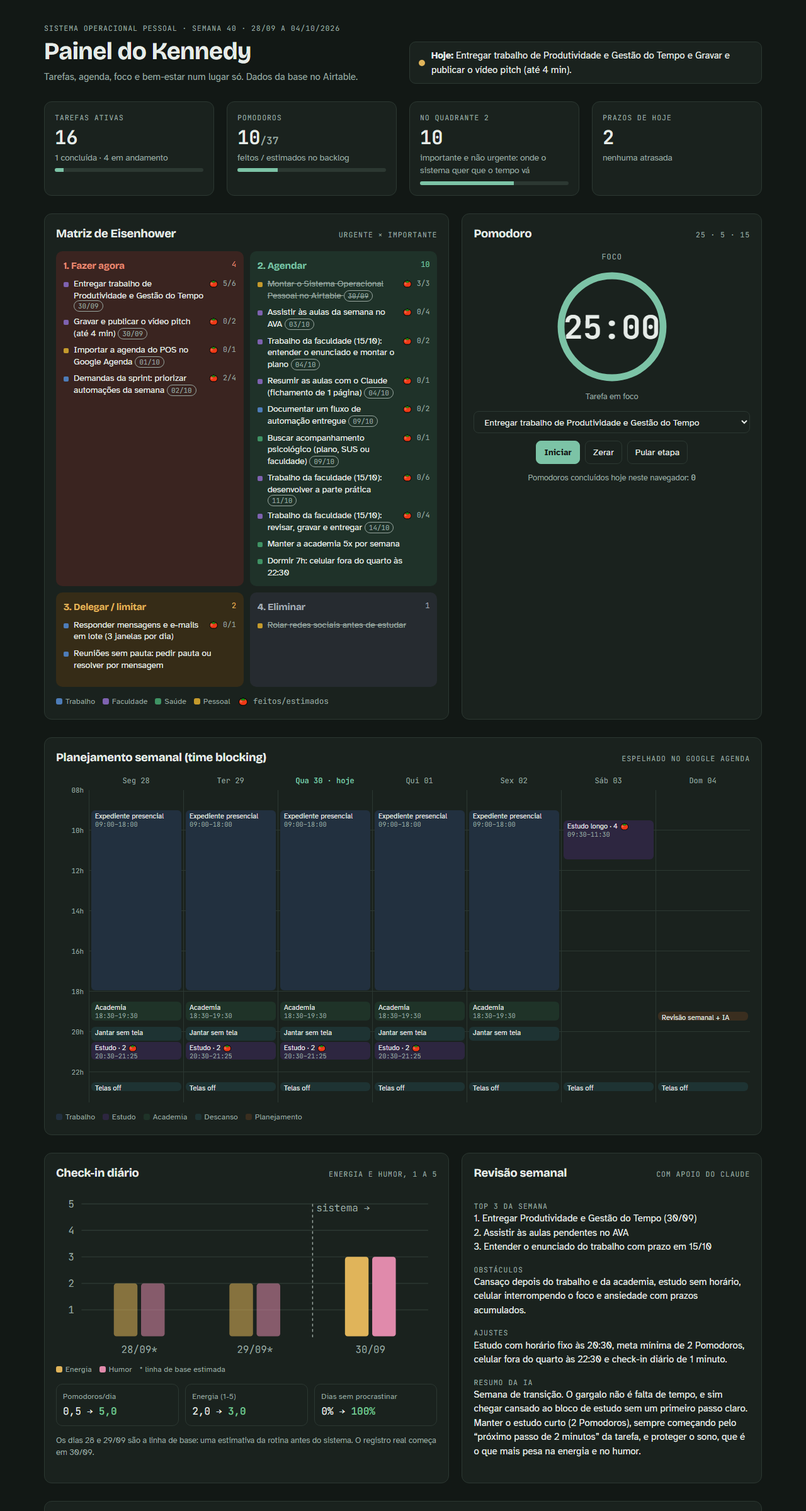
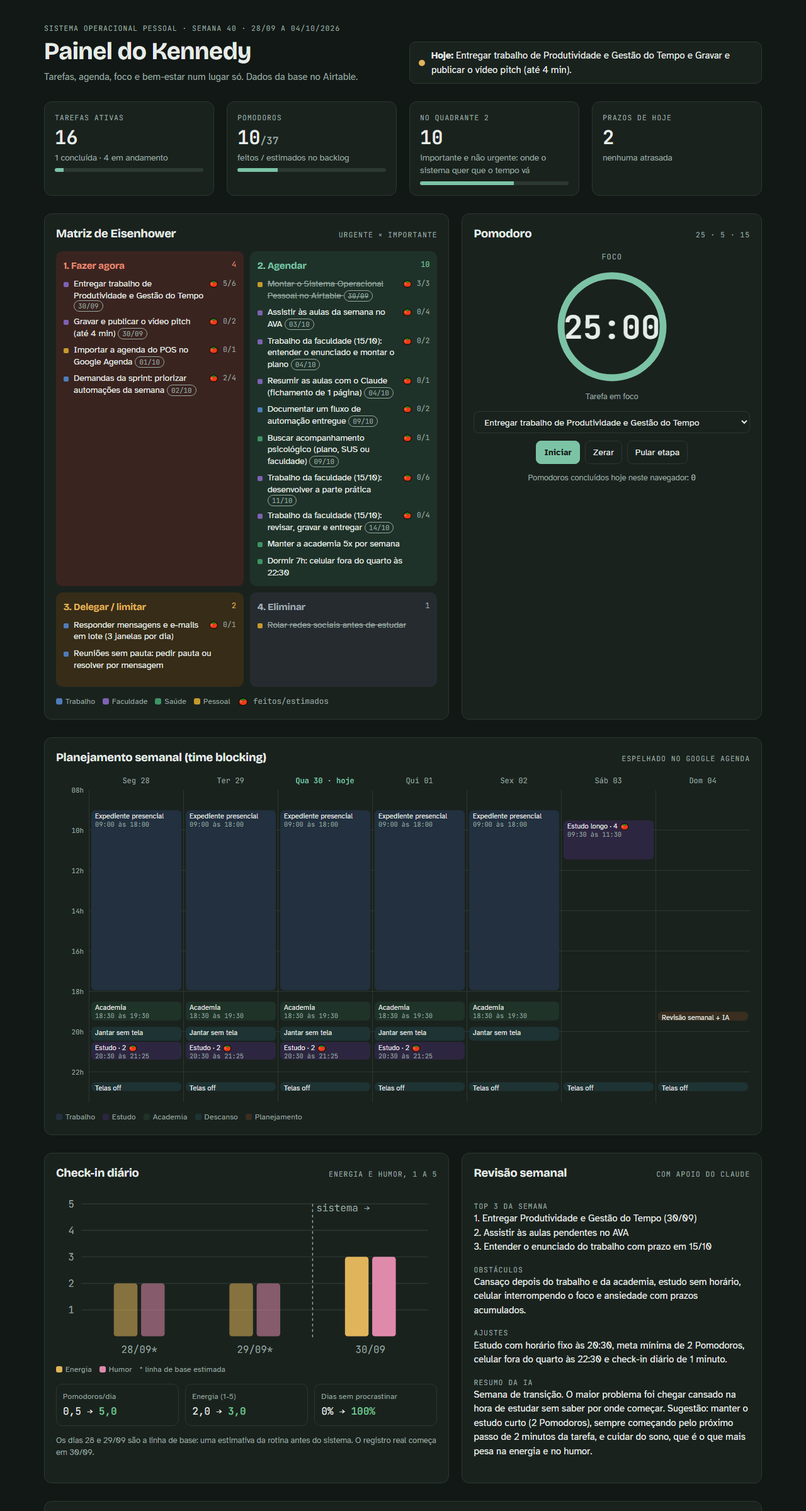
Revisa textos da parte teorica, README e painel

Changed region(s): [[0.5938, 0.9062, 0.9062, 0.9688]]

diff --git a/dashboard/index.html b/dashboard/index.html
@@ -227,7 +227,7 @@ const review = {
   "Top 3 da semana":"1. Entregar Produtividade e Gestão do Tempo (30/09)<br>2. Assistir às aulas pendentes no AVA<br>3. Entender o enunciado do trabalho com prazo em 15/10",
   "Obstáculos":"Cansaço depois do trabalho e da academia, estudo sem horário, celular interrompendo o foco e ansiedade com prazos acumulados.",
   "Ajustes":"Estudo com horário fixo às 20:30, meta mínima de 2 Pomodoros, celular fora do quarto às 22:30 e check-in diário de 1 minuto.",
-  "Resumo da IA":"Semana de transição. O gargalo não é falta de tempo, e sim chegar cansado ao bloco de estudo sem um primeiro passo claro. Manter o estudo curto (2 Pomodoros), sempre começando pelo “próximo passo de 2 minutos” da tarefa, e proteger o sono, que é o que mais pesa na energia e no humor."
+  "Resumo da IA":"Semana de transição. O maior problema foi chegar cansado na hora de estudar sem saber por onde começar. Sugestão: manter o estudo curto (2 Pomodoros), sempre começando pelo próximo passo de 2 minutos da tarefa, e cuidar do sono, que é o que mais pesa na energia e no humor."
 };
 const prompts = [
   {n:"Planejamento semanal",w:"Domingo (planejamento)",x:"Você é meu assistente de planejamento. Minha rotina fixa: trabalho presencial 09h-18h (seg-sex), academia 18h30-19h30, estudo 20h30-21h25 (seg-qui, 2 Pomodoros) e sábado 09h30-11h30 (4 Pomodoros). Abaixo estão minhas tarefas com prazo e estimativa em Pomodoros. 1) Classifique cada uma na Matriz de Eisenhower. 2) Distribua as tarefas dos quadrantes 1 e 2 nos blocos da semana sem passar da capacidade. 3) Liste o que deve ser eliminado ou adiado. 4) Escolha um Top 3 da semana. Responda em tabela.\n\nTAREFAS:\n[colar a exportação da view 'Caixa de entrada' do Airtable]"},
@@ -281,7 +281,7 @@ w += `<div class="hours" style="height:${(H1-H0)*PX}px">${hrs}</div>`;
 for(let i=0;i<7;i++){
   const bl = blocks.filter(b=>b.d.includes(i)).map(b=>{
     const top=(toH(b.s)-H0)*PX, h=(toH(b.e)-toH(b.s))*PX-2;
-    return `<div class="blk t-${b.ty}" style="top:${top}px;height:${h}px" title="${b.n} ${b.s}–${b.e}">${b.n}${h>26?`<b>${b.s}–${b.e}</b>`:""}</div>`;
+    return `<div class="blk t-${b.ty}" style="top:${top}px;height:${h}px" title="${b.n} ${b.s} às ${b.e}">${b.n}${h>26?`<b>${b.s} às ${b.e}</b>`:""}</div>`;
   }).join("");
   w += `<div class="col" style="height:${(H1-H0)*PX}px;--h:${PX*2}px">${bl}</div>`;
 }

diff --git a/docs/parte-teorica.md b/docs/parte-teorica.md
@@ -1,7 +1,7 @@
-# Parte Teórica – Análise e Discussão
+# Parte Teórica: Análise e Discussão
 
 **Projeto:** Meu Sistema Operacional Pessoal: Utilizando IA para Gerenciar Tempo, Comunicação e Produtividade
-**Disciplina:** Produtividade e Gestão do Tempo – UniFECAF, 2º semestre
+**Disciplina:** Produtividade e Gestão do Tempo, UniFECAF, 2º semestre
 **Aluno:** Kennedy Pereira
 
 **Links do projeto:**
@@ -13,157 +13,150 @@
 
 ---
 
-## 1. Diagnóstico da rotina atual
+## 1. Diagnóstico da minha rotina
 
-Trabalho como **analista de IA e Automação**, em regime **presencial, das 09h às 18h**, e curso **IA e Automação na UniFECAF** a distância. Antes deste projeto, meu dia típico seguia esta sequência:
+Trabalho como analista de IA e Automação, de forma presencial, das 9h às 18h. Também curso IA e Automação na UniFECAF, a distância. Antes deste trabalho, meu dia era mais ou menos assim:
 
-| Horário aproximado | Atividade |
+| Horário | O que eu fazia |
 |---|---|
 | Manhã | Acordar e ir para o trabalho |
-| 09h – 18h | Expediente presencial |
+| 9h às 18h | Expediente presencial |
 | Depois do trabalho | Academia |
-| Noite | Voltar para casa, estudar "quando dava", banho e dormir |
+| À noite | Voltar para casa, estudar quando dava, tomar banho e dormir |
 
-A rotina tinha uma única âncora fixa: a **academia**, que funciona bem e que eu mantenho com regularidade. Todo o resto era feito "de cabeça". Eu **não usava nenhuma ferramenta de organização**: as tarefas da faculdade, do trabalho e da vida pessoal ficavam na memória ou espalhadas em conversas de WhatsApp e e-mails.
+O único compromisso fixo que eu tinha era a academia, e ela sempre funcionou bem. O resto ficava na cabeça. Eu não usava nenhuma ferramenta para me organizar, então as coisas da faculdade, do trabalho e da vida pessoal ficavam na memória ou perdidas em conversas de WhatsApp e e-mail.
 
-Ao montar o diagnóstico, percebi três pontos importantes:
+Quando parei para fazer esse diagnóstico, percebi três coisas. A primeira é que eu não sabia quantas horas estudava por semana, então não tinha como saber se era pouco ou muito. A segunda é que o estudo sempre ficava com o que sobrava do dia, depois do trabalho e da academia, quando eu já estava sem energia, sem horário certo e sem saber direito o que ia estudar. A terceira é que eu lembrava dos prazos tarde. Sem uma lista, os trabalhos da faculdade só ganhavam atenção perto da data de entrega.
 
-1. **Eu não sabia quantas horas estudava por semana.** Sem medição, não havia como saber se o tempo de estudo era suficiente nem como melhorá-lo.
-2. **O estudo ficava com a "sobra" do dia.** Ele acontecia depois do trabalho e da academia, no momento de menor energia, sem horário definido e sem um objetivo claro para a sessão.
-3. **Prazos eram lembrados tarde.** Sem uma lista central, o trabalho da faculdade só ganhava atenção quando o prazo já estava próximo, o que gerava acúmulo e pressão.
+## 2. Principais desafios de produtividade
 
-## 2. Principais desafios de produtividade identificados
-
-| Desafio | Como aparece na rotina | Consequência |
+| Desafio | Como aparece no dia a dia | O que causa |
 |---|---|---|
-| **Procrastinação** | Adiar o estudo e os trabalhos da faculdade, principalmente à noite | Acúmulo de tarefas perto do prazo |
-| **Cansaço** | Chegar ao momento de estudo depois de 9h de trabalho e da academia | Pouca concentração e sessões que não começam |
-| **Falta de sistema** | Nenhuma ferramenta; tudo na memória | Esquecimento, sensação de "estar devendo algo" o tempo todo |
-| **Interrupções digitais** | Celular e redes sociais durante o estudo | Foco fragmentado |
-| **Saúde mental** | Ansiedade e estresse, com fases de desânimo | Energia baixa, mais procrastinação, ciclo que se retroalimenta |
+| Procrastinação | Deixar o estudo e os trabalhos para depois, principalmente à noite | Tarefas acumulando perto do prazo |
+| Cansaço | Chegar na hora de estudar depois de 9 horas de trabalho e da academia | Pouca concentração, e às vezes o estudo nem começa |
+| Falta de organização | Nenhuma ferramenta, tudo na memória | Esquecimentos e a sensação de estar sempre devendo alguma coisa |
+| Celular | Redes sociais e notificações durante o estudo | Foco quebrado |
+| Saúde mental | Ansiedade e estresse | Menos energia e mais procrastinação |
 
-O ponto central do diagnóstico é que **procrastinação, cansaço e ansiedade formam um ciclo**: o cansaço faz adiar; o adiamento gera acúmulo; o acúmulo aumenta a ansiedade; a ansiedade piora o sono e a energia; e com menos energia, adia-se ainda mais. Por isso o sistema não poderia ser só uma lista de tarefas. Ele precisava **reduzir o esforço de começar**, **proteger a energia** e **tirar a carga mental da cabeça**.
+Olhando a tabela, percebi que esses problemas estão ligados. Quando estou cansado, eu adio. As tarefas acumulam, a ansiedade aumenta, durmo pior e no dia seguinte tenho menos energia ainda. Por isso eu sabia que uma lista de tarefas sozinha não ia resolver. O sistema precisava facilitar o começo das tarefas, cuidar da minha energia e tirar as coisas da minha cabeça.
 
-Sobre comunicação, o desafio é menor, mas existe: no trabalho, mensagens chegam o dia inteiro por vários canais, e responder tudo na hora interrompe o trabalho profundo.
+Sobre comunicação, não tenho grandes problemas, mas no trabalho as mensagens chegam o dia todo por vários canais. Responder tudo na hora atrapalha quando preciso me concentrar.
 
 ## 3. Métodos utilizados
 
-O sistema combina quatro métodos, cada um escolhido para atacar um desafio específico do diagnóstico:
+Usei quatro métodos, e cada um foi escolhido por causa de um problema do diagnóstico.
 
-### 3.1 GTD – Getting Things Done (David Allen)
+### 3.1 GTD (Getting Things Done)
 
-**Problema que resolve:** tudo na memória.
-O GTD parte da ideia de que a mente serve para ter ideias, não para guardá-las. Apliquei três etapas do método:
-
-- **Capturar:** toda tarefa nova entra na tabela *Tarefas* com status *Caixa de entrada*.
-- **Esclarecer e organizar:** cada tarefa recebe área, prazo, estimativa e um **próximo passo concreto**.
-- **Revisar:** todo domingo às 19h faço a **Revisão Semanal**, registrada numa tabela própria.
+O GTD, de David Allen, parte da ideia de que a cabeça serve para ter ideias e não para guardar tarefas. Era exatamente o meu problema. Usei três partes do método. Toda tarefa nova é anotada no Airtable com o status "Caixa de entrada" (captura). Depois cada uma recebe área, prazo, estimativa de tempo e um próximo passo concreto (organização). E todo domingo às 19h faço uma revisão da semana, que fica registrada numa tabela própria (revisão).
 
 ### 3.2 Matriz de Eisenhower
 
-**Problema que resolve:** decidir o que fazer primeiro sem gastar energia com isso.
-Cada tarefa é marcada como *Urgente* e/ou *Importante*, e uma fórmula no Airtable calcula o quadrante automaticamente:
+Para decidir o que fazer primeiro, marco cada tarefa como urgente, importante, as duas coisas ou nenhuma. Uma fórmula no Airtable coloca a tarefa no quadrante certo automaticamente:
 
 | | Urgente | Não urgente |
 |---|---|---|
-| **Importante** | 1. Fazer agora | 2. Agendar |
-| **Não importante** | 3. Delegar / limitar | 4. Eliminar |
+| Importante | 1. Fazer agora | 2. Agendar |
+| Não importante | 3. Delegar ou limitar | 4. Eliminar |
 
-O objetivo é deslocar o tempo para o **quadrante 2** (importante e não urgente), onde estão o trabalho com prazo em 15/10, as aulas, a saúde e o sono. Quando essas tarefas são feitas com antecedência, elas não viram urgências no quadrante 1.
+A ideia é passar mais tempo no quadrante 2, das coisas importantes que ainda não são urgentes. É onde estão o trabalho da faculdade com prazo em 15/10, as aulas, a academia e o sono. Se eu faço essas tarefas com antecedência, elas não viram correria depois.
 
-### 3.3 Técnica Pomodoro (Francesco Cirillo)
+### 3.3 Técnica Pomodoro
 
-**Problema que resolve:** cansaço e procrastinação na hora de estudar.
-Ciclos de **25 minutos de foco e 5 de pausa**, com pausa longa de 15 minutos a cada 4 ciclos. A decisão mais importante foi definir uma **meta mínima pequena: 2 Pomodoros por noite**. Começar 25 minutos, mesmo cansado, é muito mais fácil do que "estudar a noite toda". Cada tarefa é estimada em Pomodoros, o que também mede o tempo de estudo, resolvendo o problema de "não saber quanto estudo".
+O Pomodoro, criado por Francesco Cirillo, divide o trabalho em blocos de 25 minutos de foco com 5 minutos de pausa, e uma pausa maior de 15 minutos a cada 4 blocos. Escolhi essa técnica por causa do cansaço. Coloquei uma meta pequena de propósito: 2 Pomodoros por noite. Começar 25 minutos cansado é bem mais fácil do que pensar em "estudar a noite toda". Também passei a estimar as tarefas em Pomodoros, e assim consigo medir quanto estudo, coisa que eu não sabia antes.
 
-### 3.4 Time blocking (blocos de tempo)
+### 3.4 Blocos de tempo (time blocking)
 
-**Problema que resolve:** estudo sem horário.
-Os compromissos fixos viraram blocos na agenda semanal: trabalho, academia, um bloco de **descompressão sem tela** antes do estudo, estudo de segunda a quinta às 20h30, estudo longo no sábado de manhã, revisão semanal no domingo e **horário de desligar as telas** às 22h30. Sexta à noite fica livre de propósito: descanso também é planejado.
+Coloquei os compromissos fixos na agenda da semana: trabalho, academia, um intervalo sem tela antes de estudar, estudo de segunda a quinta às 20h30, um estudo mais longo no sábado de manhã, a revisão de domingo e o horário de desligar as telas às 22h30. A sexta à noite ficou livre de propósito, porque descanso também precisa estar planejado.
 
 ### 3.5 Regra dos 2 minutos
 
-Complementa o GTD: toda tarefa tem um campo **"Próximo passo (2 min)"**, uma ação tão pequena que pode ser feita imediatamente (por exemplo, "abrir o AVA e dar play na primeira aula pendente"). A procrastinação costuma estar no início da tarefa, não nela inteira.
+Junto com o GTD, cada tarefa tem um campo chamado "Próximo passo (2 min)". É uma ação tão pequena que dá para fazer na hora, como "abrir o AVA e dar play na primeira aula pendente". Percebi que o mais difícil para mim é começar, e depois que começo eu geralmente continuo.
 
-## 4. Ferramentas escolhidas e justificativa
+## 4. Ferramentas escolhidas e por quê
 
-| Ferramenta | Papel no sistema | Justificativa |
+| Ferramenta | Para que uso | Por que escolhi |
 |---|---|---|
-| **Airtable** | Núcleo do sistema: tarefas, agenda, check-in diário, revisão semanal e biblioteca de prompts | Já uso a ferramenta (projeto da ONG Vida Plena); funciona como banco de dados, com fórmulas (quadrante automático), visualizações e **automações nativas**. É mais estruturado que o Trello e permite medir dados ao longo do tempo |
-| **Google Agenda** | Lembretes dos blocos de tempo no celular | Já uso no dia a dia; os blocos da tabela *Agenda* foram exportados por script para um arquivo `.ics`, que entra no Google Agenda de uma vez, com alerta 10 minutos antes de cada bloco |
-| **Claude (IA)** | Planejamento, priorização, quebra de tarefas, comunicação e revisão | Trabalho com IA; o Claude entende contexto longo e responde em português com tabelas, o que facilita levar o resultado para o Airtable |
-| **Painel POS (dashboard web)** | Visão consolidada: indicadores, Matriz de Eisenhower, Pomodoro, agenda semanal e evolução de energia e humor | O Airtable é ótimo para registrar, mas o painel mostra a semana numa tela só e inclui um timer de Pomodoro ligado às tarefas |
+| Airtable | Centro do sistema: tarefas, agenda, check-in diário, revisão semanal e biblioteca de prompts | Já usei em outro trabalho da faculdade (ONG Vida Plena). Ele funciona como um banco de dados, tem fórmulas e automações e guarda os números do dia a dia para eu acompanhar a evolução |
+| Google Agenda | Lembretes dos blocos de tempo no celular | Já uso no dia a dia. Os blocos da tabela Agenda foram exportados por um script para um arquivo .ics, que pode ser importado de uma vez, com aviso 10 minutos antes de cada bloco |
+| Claude (IA) | Planejar, priorizar, quebrar tarefas grandes, escrever mensagens e revisar a semana | Trabalho com IA e já tenho familiaridade. Ele entende bem o contexto e responde em português, inclusive em tabela, o que facilita passar para o Airtable |
+| Painel POS | Ver a semana numa tela só: indicadores, matriz, Pomodoro, agenda e evolução de energia e humor | O Airtable é bom para registrar, mas o painel junta tudo e tem um timer de Pomodoro ligado às tarefas |
 
-O Trello foi considerado, mas descartado: ele é ótimo para fluxo visual (kanban), mas não mede hábitos, energia e Pomodoros com a mesma facilidade, e eu queria **dados** para acompanhar a evolução.
+Pensei em usar o Trello, que é muito bom para ver as tarefas em colunas (kanban). Mas ele não guarda com a mesma facilidade dados como energia, sono e quantidade de Pomodoros, e eu queria acompanhar esses números ao longo das semanas.
 
-## 5. Como a IA foi utilizada para apoiar a organização
+## 5. Como a IA ajudou na organização
 
-A IA entrou em cinco pontos do sistema. Os prompts estão salvos na tabela *Prompts de IA* do Airtable e na pasta `prompts/` do projeto, para serem reutilizados sem precisar escrever do zero:
+Usei o Claude em cinco momentos. Os prompts ficam salvos na tabela "Prompts de IA" do Airtable e na pasta `prompts/` do projeto, assim não preciso escrever tudo de novo toda vez.
 
-1. **Planejamento semanal:** no domingo, envio ao Claude as tarefas da caixa de entrada com prazos e estimativas. Ele classifica na Matriz de Eisenhower, distribui as tarefas nos blocos de estudo **sem passar da capacidade real da semana** e sugere um Top 3.
-2. **Classificação rápida:** para tarefas novas no meio da semana, um prompt curto devolve "urgente/importante" com uma justificativa de uma frase.
-3. **Combate à procrastinação:** quando travo numa tarefa, o prompt "Destravar" quebra a tarefa em até 5 passos de 1 Pomodoro, com o primeiro passo executável em 2 minutos. Os textos do campo *Próximo passo* das tarefas foram gerados assim.
-4. **Comunicação profissional:** reescrita de mensagens com contexto, pedido claro, prazo e próximo passo, em versão para WhatsApp e para e-mail.
-5. **Revisão semanal e estudo:** o Claude lê os check-ins diários e as tarefas da semana, resume a semana, aponta padrões (por exemplo, a relação entre sono e foco) e sugere no máximo dois ajustes. Também faz fichamentos de 1 página das aulas.
+1. **Planejamento da semana.** No domingo, mando para o Claude a lista de tarefas com prazos e estimativas. Ele classifica na Matriz de Eisenhower, distribui as tarefas nos horários de estudo sem passar do tempo que eu realmente tenho e sugere as 3 prioridades da semana.
+2. **Classificação rápida.** Quando aparece uma tarefa nova no meio da semana, um prompt curto me diz se ela é urgente e/ou importante, com uma frase explicando.
+3. **Quando eu travo.** Peço para o Claude dividir a tarefa em até 5 passos de um Pomodoro cada, sendo que o primeiro precisa caber em 2 minutos. Os textos do campo "Próximo passo" das tarefas foram feitos assim.
+4. **Mensagens de trabalho.** Uso um prompt que reescreve a mensagem com contexto, pedido, prazo e próximo passo, numa versão para WhatsApp e outra para e-mail.
+5. **Revisão da semana e estudo.** O Claude lê meus check-ins e as tarefas da semana, resume como foi, mostra padrões (por exemplo, a relação entre sono e foco) e sugere no máximo dois ajustes. Também uso para fazer resumos de uma página das aulas.
 
-A IA também foi usada para **construir** o sistema: o Claude me ajudou a modelar as tabelas, escrever a fórmula do quadrante, gerar o arquivo da agenda e montar o painel.
+Também usei a IA para montar o próprio sistema. Ela me ajudou a pensar nas tabelas, a escrever a fórmula da matriz, a gerar o arquivo da agenda e a criar o painel.
 
-**Uso consciente.** A IA **sugere** e eu **decido**. Os prompts pedem respostas curtas e práticas, e eu reviso cada classificação antes de aceitar. Não envio dados sensíveis de terceiros nem informações confidenciais do trabalho; para tarefas do trabalho, uso descrições genéricas.
+Tomo alguns cuidados nesse uso. A IA sugere, mas quem decide sou eu, e reviso as classificações antes de aceitar. Também não coloco informações confidenciais da empresa nem dados de outras pessoas. Para tarefas do trabalho, uso descrições genéricas.
 
-### Automação
+Além da IA, configurei uma automação no Airtable: todo domingo às 19h ela cria o registro da revisão semanal. Assim a revisão não depende de eu lembrar.
 
-Além do uso direto da IA, o Airtable tem uma **automação semanal**: todo domingo às 19h ela cria o registro da revisão semanal com status *Planejada*. Assim, o ritual de revisão não depende de eu lembrar.
-
-## 6. Estratégias para melhorar comunicação, reduzir procrastinação e preservar a saúde mental
+## 6. Estratégias para comunicação, procrastinação e saúde mental
 
 ### 6.1 Comunicação
 
-- **Janelas de mensagens:** responder mensagens e e-mails em três janelas fixas (09h15, 13h30 e 17h15), com notificações silenciadas fora delas. Isso reduz interrupções sem deixar ninguém sem resposta.
-- **Mensagens completas:** usar o prompt "Mensagem profissional" para que cada mensagem tenha contexto, pedido, prazo e próximo passo, o que reduz idas e vindas.
-- **Reuniões com pauta:** pedir pauta antes ou resolver por mensagem quando a reunião não for necessária.
+- Responder mensagens e e-mails em três horários fixos (9h15, 13h30 e 17h15), com as notificações silenciadas no resto do tempo. Assim ninguém fica sem resposta e eu não sou interrompido o dia todo.
+- Usar o prompt de mensagem profissional para que cada mensagem já tenha contexto, pedido e prazo, evitando várias idas e vindas.
+- Pedir a pauta antes das reuniões ou resolver por mensagem quando a reunião não for necessária.
 
 ### 6.2 Procrastinação
 
-- **Começar pequeno:** meta mínima de 2 Pomodoros e "próximo passo de 2 minutos" em cada tarefa.
-- **Remover a decisão:** o horário de estudo já está na agenda e a tarefa da noite já foi escolhida no domingo. À noite eu só executo.
-- **Reduzir gatilhos:** apps de redes sociais fora da tela inicial do celular durante o bloco de estudo.
-- **Quebrar entregas grandes:** o trabalho com prazo em 15/10 foi dividido em três tarefas com prazos semanais, para não acumular na última semana.
+- Começar pequeno, com a meta mínima de 2 Pomodoros e o próximo passo de 2 minutos em cada tarefa.
+- Não precisar decidir na hora. O horário de estudo já está na agenda e a tarefa da noite foi escolhida no domingo, então à noite eu só executo.
+- Deixar os aplicativos de redes sociais fora da tela inicial do celular durante o estudo.
+- Dividir entregas grandes. O trabalho com prazo em 15/10 foi separado em três partes, uma por semana, para não ficar tudo para os últimos dias.
 
 ### 6.3 Saúde mental e bem-estar
 
-Este é o ponto mais sensível do diagnóstico. Tenho lidado com ansiedade e estresse, e entendi que **produtividade sem cuidado com a saúde não se sustenta**. As estratégias adotadas foram:
+Essa foi a parte mais difícil de escrever. Tenho lidado com ansiedade e estresse, e entendi que não adianta ser produtivo se a saúde não acompanha. O que coloquei no sistema:
 
-- **Proteger a academia** como compromisso inegociável, por ser o principal regulador de estresse da minha rotina.
-- **Proteger o sono:** telas desligadas às 22h30 e celular fora do quarto, com meta de 7 horas.
-- **Pausas sem tela:** bloco de descompressão entre a academia e o estudo, e pausas do Pomodoro longe do celular.
-- **Check-in diário de 1 minuto:** registrar energia, humor, sono e hábitos. Isso torna visível o que antes era só sensação e ajuda a perceber padrões cedo.
-- **Descanso planejado:** sexta à noite e parte do fim de semana livres.
-- **Buscar apoio profissional:** incluí no próprio sistema a tarefa de buscar acompanhamento psicológico (plano de saúde, SUS ou serviço da faculdade), no quadrante "importante". Ferramentas organizam a rotina, mas não substituem o cuidado com a saúde mental.
+- A academia virou compromisso que não sai da agenda, porque é o que mais me ajuda a aliviar o estresse.
+- Telas desligadas às 22h30 e celular fora do quarto, com meta de 7 horas de sono.
+- Um intervalo sem tela entre a academia e o estudo, e as pausas do Pomodoro longe do celular.
+- Um check-in de 1 minuto por dia, anotando energia, humor, sono e hábitos. Assim consigo ver no papel o que antes era só sensação e perceber quando a semana está pesada.
+- Sexta à noite e parte do fim de semana livres.
+- Coloquei no próprio sistema a tarefa de procurar acompanhamento psicológico, pelo plano de saúde, pelo SUS ou pela faculdade. Ferramenta ajuda a organizar a rotina, mas não substitui esse cuidado.
 
-## 7. Resultados iniciais e próximos passos
+## 7. Primeiros resultados e próximos passos
 
-O sistema começou a ser usado em **30/09/2026**. Os dias 28 e 29/09 foram registrados como **linha de base**, com valores estimados a partir da rotina anterior. No primeiro dia de uso, o trabalho desta disciplina foi feito em **5 Pomodoros**, sem procrastinação e com mais clareza do que precisava ser entregue.
+Comecei a usar o sistema em 30/09/2026. Os dias 28 e 29/09 entraram como ponto de partida, com valores que estimei a partir da rotina que eu tinha antes. No primeiro dia de uso fiz este trabalho em 5 Pomodoros, sem procrastinar, sabendo exatamente o que precisava entregar.
 
-Os ganhos percebidos até aqui são:
+O que já percebi de diferença:
 
-- **Clareza:** todas as tarefas estão em um lugar só, com prioridade definida. A sensação de "estar esquecendo algo" diminuiu.
-- **Medição:** pela primeira vez sei quanto estudo, em Pomodoros.
-- **Início mais fácil:** com o próximo passo já escrito, começar exige menos energia.
-- **Equilíbrio:** saúde, sono e descanso entraram na agenda com o mesmo peso dos compromissos de trabalho e estudo.
+- Tudo está num lugar só e com prioridade definida. Aquela sensação de estar esquecendo alguma coisa diminuiu bastante.
+- Pela primeira vez consigo medir quanto estudo, contando os Pomodoros.
+- Com o próximo passo já escrito, fica mais fácil começar mesmo cansado.
+- Saúde, sono e descanso entraram na agenda junto com trabalho e estudo.
 
-Para as próximas semanas, os indicadores a acompanhar no painel são: **Pomodoros de estudo por semana** (meta: 12), **dias sem procrastinação**, **média de energia e humor** e **horas de sono**. A Revisão Semanal com o Claude vai usar esses dados para ajustar o sistema, que deve evoluir com a rotina.
+Nas próximas semanas vou acompanhar no painel a quantidade de Pomodoros de estudo (meta de 12 por semana), os dias sem procrastinar, a média de energia e humor e as horas de sono. A revisão de domingo com o Claude vai usar esses dados para ir ajustando o sistema conforme a rotina mudar.
 
 ## 8. Conclusão
 
-O principal aprendizado deste projeto é que meu problema não era falta de tempo nem de conhecimento técnico, e sim **falta de um sistema** e de **energia no momento certo**. Ao juntar métodos clássicos (GTD, Eisenhower, Pomodoro e time blocking), ferramentas simples (Airtable e Google Agenda) e a IA como assistente de planejamento e comunicação, a organização deixou de depender da memória e da força de vontade. A tecnologia, usada com consciência, serviu para **reduzir a carga mental** e abrir espaço para o que importa: aprender, trabalhar bem e cuidar da saúde.
+Com este trabalho percebi que o que me faltava não era tempo nem conhecimento técnico. Faltava um sistema, e faltava energia na hora em que eu deixava para estudar. Juntando métodos conhecidos (GTD, Eisenhower, Pomodoro e blocos de tempo), ferramentas simples (Airtable e Google Agenda) e a IA como apoio no planejamento e na comunicação, minha organização parou de depender só da memória e da força de vontade. Usada com cuidado, a tecnologia tirou peso da minha cabeça e deixou mais espaço para estudar, trabalhar bem e cuidar da saúde.
 
 ## Referências
 
-- ALLEN, David. *A arte de fazer acontecer: o método GTD – Getting Things Done*. Rio de Janeiro: Sextante, 2016.
-- CIRILLO, Francesco. *The Pomodoro Technique*. Berlim: FC Garage, 2006.
-- COVEY, Stephen R. *Os 7 hábitos das pessoas altamente eficazes*. Rio de Janeiro: BestSeller, 2017 (Matriz do tempo / Eisenhower).
-- AIRTABLE. *Airtable Support: Automations e Formula field reference*. Disponível em: https://support.airtable.com.
-- NOTION. *Notion Guides*. Disponível em: https://www.notion.so/help.
-- TRELLO. *Trello Guide*. Disponível em: https://trello.com/guide.
-- ASANA. *Asana Academy*. Disponível em: https://academy.asana.com.
-- UNIFECAF. *Disciplina Produtividade e Gestão do Tempo*: conteúdos sobre Gestão do Tempo, Comunicação, Saúde Mental e Bem-Estar no Trabalho.
+ALLEN, David. *A arte de fazer acontecer: o método GTD (Getting Things Done)*. Rio de Janeiro: Sextante, 2016.
+
+AIRTABLE. *Airtable Support*. Disponível em: https://support.airtable.com. Acesso em: 30 set. 2026.
+
+ASANA. *Asana Academy*. Disponível em: https://academy.asana.com. Acesso em: 30 set. 2026.
+
+CIRILLO, Francesco. *The Pomodoro Technique*. Berlim: FC Garage, 2006.
+
+COVEY, Stephen R. *Os 7 hábitos das pessoas altamente eficazes*. Rio de Janeiro: BestSeller, 2017.
+
+NOTION. *Notion Guides*. Disponível em: https://www.notion.so/help. Acesso em: 30 set. 2026.
+
+TRELLO. *Trello Guide*. Disponível em: https://trello.com/guide. Acesso em: 30 set. 2026.
+
+UNIFECAF. *Produtividade e Gestão do Tempo*: conteúdos sobre gestão do tempo, comunicação, saúde mental e bem-estar no trabalho. Material da disciplina, 2026.

diff --git a/README.md b/README.md
@@ -1,6 +1,6 @@
 # Sistema Operacional Pessoal (POS)
 
-Sistema de produtividade pessoal que junta **Airtable**, **Google Agenda** e **IA (Claude)** para organizar tarefas, planejar a semana, gerir compromissos, acompanhar foco e bem-estar e melhorar a comunicação profissional. Aplica **GTD**, **Matriz de Eisenhower**, **Pomodoro** e **time blocking**.
+Sistema de produtividade que montei com **Airtable**, **Google Agenda** e **IA (Claude)** para organizar minhas tarefas, planejar a semana, controlar compromissos, acompanhar foco e bem-estar e melhorar a comunicação no trabalho. Usa os métodos **GTD**, **Matriz de Eisenhower**, **Pomodoro** e **time blocking**.
 
 > Trabalho da disciplina **Produtividade e Gestão do Tempo**, UniFECAF, 2º semestre. Aluno: **Kennedy Pereira**.
 
@@ -51,9 +51,9 @@ Sistema de produtividade pessoal que junta **Airtable**, **Google Agenda** e **I
 
 ## 3. O problema e a solução
 
-**Antes.** Trabalho presencial das 09h às 18h, academia depois, e o estudo da faculdade ficava com a sobra da noite, sem horário e no momento de menor energia. Nenhuma ferramenta de organização: tudo na memória. Resultado: **procrastinação**, **cansaço**, prazos lembrados tarde e ansiedade com o acúmulo.
+**Antes.** Trabalho presencial das 9h às 18h e vou para a academia depois. O estudo da faculdade ficava com o que sobrava da noite, sem horário e na hora em que eu tinha menos energia. Eu não usava nenhuma ferramenta e guardava tudo na memória. Isso gerava procrastinação, cansaço, prazos lembrados em cima da hora e ansiedade com as tarefas acumuladas.
 
-**Depois.** Um sistema único onde:
+**Depois.** Agora tenho um sistema só, em que:
 
 1. toda tarefa é **capturada** no Airtable (GTD) e classificada automaticamente na **Matriz de Eisenhower**;
 2. cada tarefa tem um **próximo passo de 2 minutos**, gerado com ajuda da IA, para facilitar o começo;
@@ -68,9 +68,9 @@ Sistema de produtividade pessoal que junta **Airtable**, **Google Agenda** e **I
 
 | Ferramenta | Uso | Por que |
 |---|---|---|
-| **Airtable** | Núcleo: tarefas, agenda, check-ins, revisões e prompts | Banco de dados visual com fórmulas, visualizações e automações. Mede hábitos ao longo do tempo, o que o Trello não faz bem |
-| **Google Agenda** | Lembretes dos blocos no celular (opcional) | Já faz parte do meu dia; importação única via `.ics` |
-| **Claude** | IA de apoio ao planejamento e à comunicação | Entende contexto longo e responde em tabelas prontas para o Airtable |
+| **Airtable** | Centro do sistema: tarefas, agenda, check-ins, revisões e prompts | Funciona como banco de dados, com fórmulas e automações, e guarda os números de hábitos ao longo das semanas, coisa que o Trello não faz tão bem |
+| **Google Agenda** | Lembretes dos blocos no celular (opcional) | Já uso no dia a dia, e o arquivo `.ics` importa tudo de uma vez |
+| **Claude** | IA de apoio ao planejamento e à comunicação | Entende bem o contexto e responde em tabela, o que facilita passar para o Airtable |
 | **Painel POS** | Visão da semana numa tela | Junta indicadores, matriz, Pomodoro e bem-estar |
 | **Python** | Script `agenda/gerar_ics.py` | Gera a agenda recorrente sem cadastrar evento por evento |
 
@@ -82,7 +82,7 @@ Sistema de produtividade pessoal que junta **Airtable**, **Google Agenda** e **I
 |---|---|---|
 | **GTD** | Tudo na memória | Status *Caixa de entrada* e tabela *Revisão Semanal* |
 | **Matriz de Eisenhower** | Decidir prioridades | Campos *Urgente* e *Importante* + fórmula *Quadrante* |
-| **Pomodoro** | Cansaço e procrastinação | Estimativas em 🍅, check-in e timer no painel |
+| **Pomodoro** | Cansaço e procrastinação | Estimativa em Pomodoros, check-in e timer no painel |
 | **Time blocking** | Estudo sem horário | Tabela *Agenda* + painel (+ Google Agenda via `.ics`) |
 | **Regra dos 2 minutos** | Dificuldade de começar | Campo *Próximo passo (2 min)* |
 
@@ -106,7 +106,7 @@ IF(AND({Urgente},{Importante}),"1. Fazer agora",
 | **Revisão Semanal** | Semana, Vitórias, Obstáculos, Ajustes, Top 3, Resumo da IA, Status | Planejamento semanal e revisão GTD |
 | **Prompts de IA** | Prompt, Quando usar, Objetivo, Texto do prompt | Biblioteca de IA reutilizável |
 
-**Automação:** *Domingo 19h: criar Revisão Semanal* (gatilho agendado → criar registro com status *Planejada*).
+**Automação:** *Domingo 19h: criar Revisão Semanal* (gatilho agendado que cria um registro com status *Planejada*).
 
 ---
 
@@ -162,7 +162,7 @@ O **Painel POS** ([link](https://claude.ai/artifact/JZHFT2irWLy7iPYgsBy9dC) · c
 - **Matriz de Eisenhower** com área, prazo e Pomodoros de cada tarefa;
 - **Timer Pomodoro** (25/5/15) ligado às tarefas, contando os ciclos do dia;
 - **Planejamento semanal** em blocos de tempo (o mesmo da tabela *Agenda*);
-- **Check-in diário:** gráfico de energia e humor e comparação *linha de base → com o sistema*;
+- **Check-in diário:** gráfico de energia e humor e comparação entre a rotina antes e depois do sistema;
 - **Revisão semanal** e **biblioteca de prompts** com botão de copiar.
 
 Tema claro e escuro automático. Os dados vêm da base do Airtable (exportação de 30/09/2026).
@@ -174,7 +174,7 @@ Tema claro e escuro automático. Os dados vêm da base do Airtable (exportação
 ### 10.1 Montar o sistema
 
 1. **Airtable:** abra o link da base e clique em *Copy base* para ter uma cópia (ou recrie as 5 tabelas da seção 6).
-2. **Automação:** em *Automations*, ative *Domingo 19h: criar Revisão Semanal*.
+2. **Automação:** na cópia da base, ative *Domingo 19h: criar Revisão Semanal* em *Automations* (na base original ela já está ativa).
 3. **Google Agenda (opcional, para receber lembretes no celular):** gere a agenda e importe:
    ```bash
    python agenda/gerar_ics.py
@@ -187,7 +187,7 @@ Tema claro e escuro automático. Os dados vêm da base do Airtable (exportação
 1. **Capturou algo?** Crie a tarefa no Airtable com status *Caixa de entrada*.
 2. **Não sabe a prioridade?** Use o prompt *Classificar tarefa* e marque *Urgente*/*Importante*.
 3. **Travou?** Use o prompt *Destravar* e cole o primeiro passo em *Próximo passo (2 min)*.
-4. **Hora do estudo?** Abra o painel, escolha a tarefa no Pomodoro e clique em *Iniciar*. Ao terminar, some os 🍅 em *Pomodoros feitos*.
+4. **Hora do estudo?** Abra o painel, escolha a tarefa no Pomodoro e clique em *Iniciar*. Ao terminar, atualize o campo *Pomodoros feitos* da tarefa.
 5. **22h30:** faça o check-in (energia, humor, sono, academia, Pomodoros, procrastinação).
 6. **Domingo 19h:** a automação cria a revisão; use os prompts *Revisão semanal* e *Planejamento semanal* e registre o resultado.
 
@@ -219,7 +219,7 @@ O sistema entrou em uso em **30/09/2026**. Os dias 28 e 29/09 são uma **linha d
 | Energia (1-5) | 2 | 3 |
 | Tarefas mapeadas | Na memória | 17 no Airtable, com prioridade |
 
-**Ganhos percebidos:** clareza (tudo num lugar só), medição do estudo pela primeira vez, mais facilidade para começar e saúde e descanso entrando na agenda.
+**O que já mudou:** tudo está num lugar só, consigo medir meu estudo pela primeira vez, começar ficou mais fácil e saúde e descanso entraram na agenda.
 
 **Metas das próximas semanas:** 12 Pomodoros de estudo por semana, 5 dias sem procrastinação, 7h de sono e academia mantida 5x por semana.
 
@@ -229,7 +229,7 @@ O sistema entrou em uso em **30/09/2026**. Os dias 28 e 29/09 são uma **linha d
 
 | Entregável | Pontos | Onde |
 |---|---|---|
-| Parte Teórica: Análise e Discussão | 1,5 | [docs/parte-teorica.md](docs/parte-teorica.md) (+ `.docx`/`.pdf` na pasta de entregáveis) |
+| Parte Teórica: Análise e Discussão | 1,5 | [docs/parte-teorica.md](docs/parte-teorica.md) (PDF enviado no AVA) |
 | Parte Prática: Sistema Operacional Pessoal | 3,5 | Base no Airtable, painel, agenda `.ics`, prompts e este README |
 | Vídeo Pitch (até 4 min) | 2,0 | https://youtu.be/X9Nvlp9Ii6c |
 

diff --git a/prompts/prompts.md b/prompts/prompts.md
@@ -69,9 +69,9 @@ TAREFAS: [colar]
 
 **Saída usada no Airtable:**
 1. *(2 min)* Abrir o AVA e dar play na primeira aula pendente.
-2. *(🍅 1)* Assistir à primeira aula anotando 3 ideias.
-3. *(🍅 2)* Segunda aula, mesmo formato.
-4. *(🍅 3)* Terceira aula.
-5. *(🍅 4)* Colar as anotações no prompt "Fichamento de aula".
+2. *(Pomodoro 1)* Assistir à primeira aula anotando 3 ideias.
+3. *(Pomodoro 2)* Segunda aula, mesmo formato.
+4. *(Pomodoro 3)* Terceira aula.
+5. *(Pomodoro 4)* Colar as anotações no prompt "Fichamento de aula".
 
 O passo 1 virou o campo **Próximo passo (2 min)** da tarefa.
